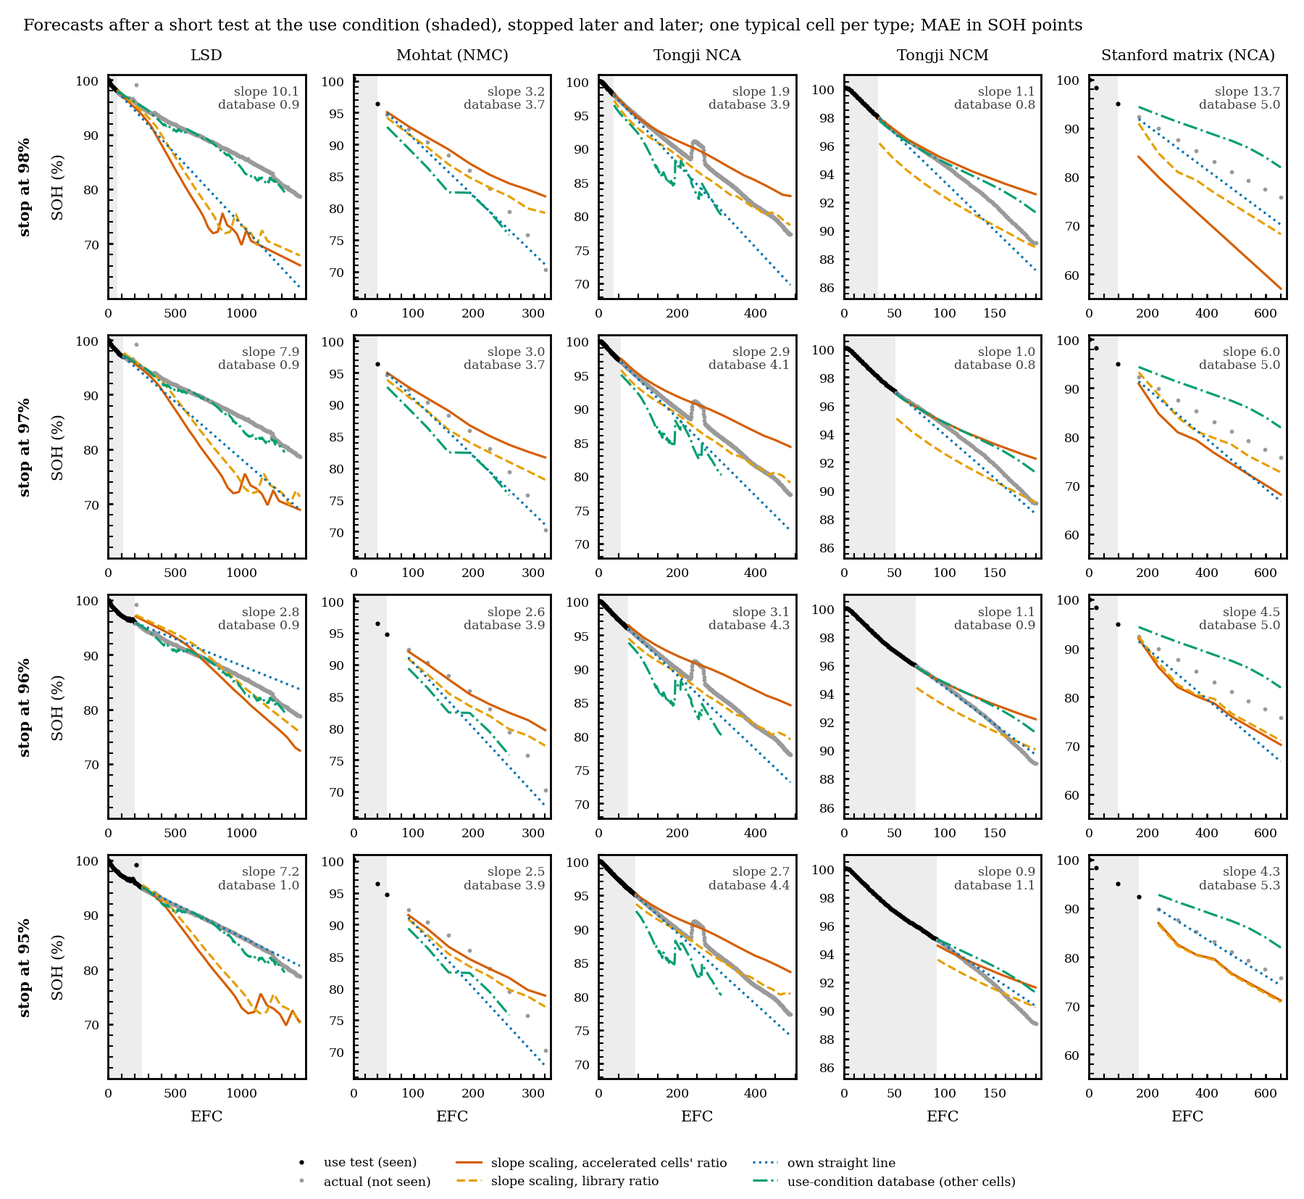
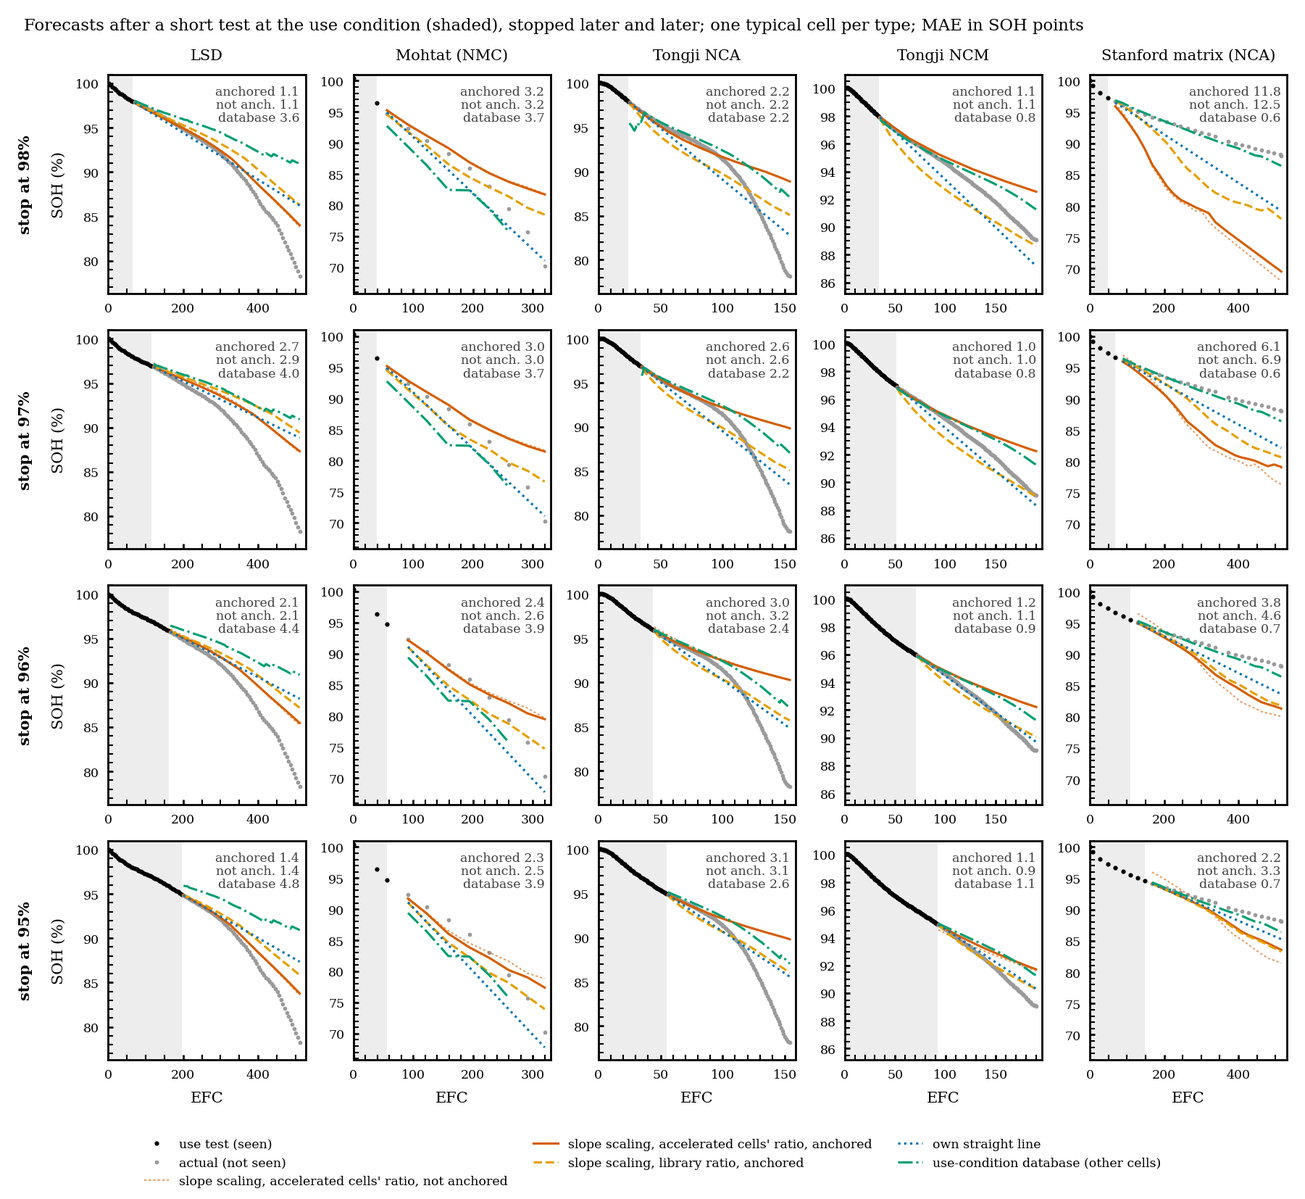
Scenario B+: anchor the forecast to the cell's own crossing of the stop level
Each method keeps its predicted t90, but the shared shape is forced through (t_L, L) of the use cell.
Helps every method at every stop (slope scaling -0.10 at 98 %, -0.32 at 95 %); the true-speed
reference drops from about 1.8 to 1.2-1.4. Slope scaling now matches the use-condition database
between the 97 % and 96 % stops. Figures redrawn with the anchored forecasts; leakage test extended.

diff --git a/scripts/fig_scenario_b_tradeoff.py b/scripts/fig_scenario_b_tradeoff.py
@@ -1,5 +1,5 @@
 """Figure: the trade-off between the length of the short test at the use condition and the forecast error
-(Scenario B / B+). Descriptive: the stop levels 97 % and 96 % are added between the two pre-registered ones
+(Scenario B / B+), with the anchored forecasts of scripts/scenario_b_anchor.py. Descriptive: the stop levels 97 % and 96 % are added between the two pre-registered ones
 (98 %, 95 %) to draw the curve; the methods are unchanged (knee_analogs/scenario_b.py, forecast_early).
 
     python scripts/fig_scenario_b_tradeoff.py            # --replot: redraw from the saved table
@@ -31,20 +31,25 @@ OUT = ROOT / "reports" / "library"
 plt.style.use(str(ROOT / "journal.mplstyle"))
 mm = 1 / 25.4
 LEVELS = (0.98, 0.97, 0.96, 0.95)
-METHODS = ["slope_accel", "slope_library", "early_linear", "early_accel", "oracle_speed", "use_database"]
+CACHE = ROOT / "data" / "library" / "scenario_b_early"  # written by scripts/scenario_b_anchor.py
+METHODS = ["slope_accel_anch", "slope_library_anch", "slope_accel", "early_linear", "early_accel_anch",
+           "oracle_speed_anch", "use_database"]
 STYLE = {  # colour, marker, label
-    "slope_accel": ("#D55E00", "o", "slope scaling, accelerated cells' ratio"),
-    "slope_library": ("#E69F00", "s", "slope scaling, library ratio"),
+    "slope_accel_anch": ("#D55E00", "o", "slope scaling, accelerated cells' ratio, anchored"),
+    "slope_library_anch": ("#E69F00", "s", "slope scaling, library ratio, anchored"),
+    "slope_accel": ("#D55E00", "o", "slope scaling, accelerated cells' ratio, not anchored"),
     "early_linear": ("#0072B2", "^", "own straight line"),
-    "early_accel": ("#CC79A7", "v", "time scaling, accelerated cells' ratio"),
+    "early_accel_anch": ("#CC79A7", "v", "time scaling, accelerated cells' ratio, anchored"),
 }
+FADED = {"slope_accel", "early_accel_anch"}
 
 
 def compute():
     meta, curves = z.load_library()
     rows = []
     for level in LEVELS:
-        P = b.forecast_early(meta, curves, level)
+        f = CACHE / f"forecast_{level:.2f}.csv.gz"
+        P = pd.read_csv(f) if f.exists() else b.forecast_early(meta, curves, level)
         _, O = b.score(P, METHODS)
         C = P.drop_duplicates("id")
         x = (C["t_stop"] / C["t90_true"]).groupby(C["type"]).median().mean()
@@ -77,25 +82,26 @@ def plot(T):
     # references: the database and the true speed, on the same points as each stop (x > 0); at x = 0 the
     # whole curve is scored, so those points stand apart and are not joined to the line
     for m, ls, mk, lab in [("use_database", "--", "D", "use-condition database (a full ageing campaign)"),
-                           ("oracle_speed", ":", "x", "true speed (reference, not available in practice)")]:
+                           ("oracle_speed_anch", ":", "x", "true speed, anchored (reference, not available in practice)")]:
         h, = a1.plot(test(m)["x"], test(m)["MAE"], color="0.4", ls=ls, lw=0.9, label=lab)
-        a1.plot(0, g(m)["MAE"].iloc[0], mk, color="0.4", ms=3, mfc="none", mew=0.7)
+        a1.plot(0, g(m.replace("_anch", ""))["MAE"].iloc[0], mk, color="0.4", ms=3, mfc="none", mew=0.7)
         handles.append(h)
     for m, (c, mk, lab) in STYLE.items():
-        h, = a1.plot(test(m)["x"], test(m)["MAE"], color=c, marker=mk, ms=3.5,
-                     lw=1.1 if m != "early_accel" else 0.8, alpha=1 if m != "early_accel" else 0.55, label=lab)
+        h, = a1.plot(test(m)["x"], test(m)["MAE"], color=c, marker=mk, ms=3.5 if m not in FADED else 2.5,
+                     lw=1.1 if m not in FADED else 0.7, alpha=1 if m not in FADED else 0.45,
+                     ls="-" if m != "slope_accel" else "--", mfc=c if m != "slope_accel" else "none", label=lab)
         handles.append(h)
     L = g("llm_speed+shape")
     h, = a1.plot(L["x"], L["MAE"], "*", color="#882255", ms=8, label="no use test: LLM speed + accelerated shape")
     handles.append(h)
     a1.annotate(f"{L['MAE'].iloc[0]:.1f}", (0, L["MAE"].iloc[0]), xytext=(5, 2), textcoords="offset points",
                 fontsize=small, color="#882255")
-    for (m, level), xy in {("slope_accel", 0.98): (-15, -1), ("slope_library", 0.98): (-15, -3),
-                           ("slope_accel", 0.95): (5, -9), ("slope_library", 0.95): (5, 3)}.items():
+    for (m, level), xy in {("slope_accel_anch", 0.98): (-15, -1), ("slope_library_anch", 0.98): (-15, -3),
+                           ("slope_accel_anch", 0.95): (5, -9), ("slope_library_anch", 0.95): (5, 3)}.items():
         r = test(m)[test(m)["level"] == level].iloc[0]
         a1.annotate(f"{r['MAE']:.1f}", (r["x"], r["MAE"]), xytext=xy, textcoords="offset points",
                     fontsize=small, color=STYLE[m][0])
-    for m, lab in [("use_database", "database"), ("oracle_speed", "true speed")]:
+    for m, lab in [("use_database", "database"), ("oracle_speed", "true speed")]:  # x = 0: not anchored
         a1.annotate(lab, (0, g(m)["MAE"].iloc[0]), xytext=(5, -2), textcoords="offset points", fontsize=small,
                     color="0.4")
     a1.text(0.0, 1.15, "x = 0: whole curve scored", fontsize=small, color="0.4")
@@ -113,10 +119,12 @@ def plot(T):
     a2.text(0.005, -0.12, "as good as the database", fontsize=small, ha="left", va="top", color="0.4")
     for m, (c, mk, _) in {**STYLE, "llm_speed+shape": ("#882255", "*", "")}.items():
         s = g(m)
-        a2.errorbar(s["x"] + {"slope_accel": -0.007, "early_linear": 0.007, "early_accel": 0.014}.get(m, 0),
+        if m == "slope_accel":
+            continue
+        a2.errorbar(s["x"] + {"slope_accel_anch": -0.007, "early_linear": 0.007, "early_accel_anch": 0.014}.get(m, 0),
                     s["diff"], yerr=[s["diff"] - s["ci_lo"], s["ci_hi"] - s["diff"]], color=c, marker=mk,
                     ms=3.5 if mk != "*" else 8, lw=1.1 if mk != "*" else 0, elinewidth=0.7, capsize=1.5,
-                    alpha=1 if m != "early_accel" else 0.55)
+                    alpha=1 if m not in FADED else 0.45)
     a2.set_ylabel("error minus database error (SOH points)", fontsize=fs)
     a2.set_title("(b) relative to the database, same points, 95 % CI", loc="left", fontsize=fs)
     for ax in (a1, a2):

diff --git a/scripts/fig_scenario_b_predictions.py b/scripts/fig_scenario_b_predictions.py
@@ -3,10 +3,10 @@ use condition until SOH reaches the stop level; the rest of its curve (to 3 x t9
 
     python scripts/fig_scenario_b_predictions.py            # --replot: reuse the cached forecasts
 
-1. scenario_b_predictions_by_stop.png: one cell per type (the median-error cell of slope_accel at the 96 %
+1. scenario_b_predictions_by_stop.png: one cell per type (the median-error cell of slope_accel_anch at the 96 %
    stop), with the use test stopped at 98, 97, 96 and 95 % SOH (rows).
 2. scenario_b_predictions_spread.png: stop at 96 %; per type the cells at the 10th, 50th and 90th
-   percentile of the slope_accel error (good, typical, bad).
+   percentile of the slope_accel_anch error (good, typical, bad).
 
 The per-cell forecasts are cached in data/library/scenario_b_early/ (gitignored).
 """
@@ -34,8 +34,9 @@ mm = 1 / 25.4
 LEVELS = (0.98, 0.97, 0.96, 0.95)
 REF_LEVEL = 0.96
 STYLE = {  # colour, line style, label
-    "slope_accel": ("#D55E00", "-", "slope scaling, accelerated cells' ratio"),
-    "slope_library": ("#E69F00", "--", "slope scaling, library ratio"),
+    "slope_accel": ("#D55E00", (0, (1.5, 1.5)), "slope scaling, accelerated cells' ratio, not anchored"),
+    "slope_accel_anch": ("#D55E00", "-", "slope scaling, accelerated cells' ratio, anchored"),
+    "slope_library_anch": ("#E69F00", "--", "slope scaling, library ratio, anchored"),
     "early_linear": ("#0072B2", ":", "own straight line"),
     "use_database": ("#009E73", "-.", "use-condition database (other cells)"),
 }
@@ -56,7 +57,7 @@ def forecasts(replot):
     return P
 
 
-def cell_error(D, m="slope_accel"):
+def cell_error(D, m="slope_accel_anch"):
     return (D[m] - D["actual"]).abs().groupby(D["id"]).mean() * 100
 
 
@@ -70,14 +71,16 @@ def panel(ax, curves, D, cid, show_err=True):
             label="actual (not seen)")
     for m, (c, ls, lab) in STYLE.items():
         if g[m].notna().any():
-            ax.plot(g["efc"], g[m] * 100, color=c, ls=ls, lw=0.9, label=lab)
+            ax.plot(g["efc"], g[m] * 100, color=c, ls=ls, lw=0.9 if m != "slope_accel" else 0.6,
+                    alpha=1 if m != "slope_accel" else 0.6, label=lab)
     lo = np.nanmin([s[t <= tend].min()] + [g[m].min() for m in STYLE]) * 100
     ax.set_ylim(max(lo - 2, 40), 101)
     ax.set_xlim(0, tend * 1.03)
     ax.tick_params(labelsize=SMALL, length=2)
     if show_err:
-        e = {m: (g[m] - g["actual"]).abs().mean() * 100 for m in ("slope_accel", "use_database")}
-        ax.text(0.97, 0.95, f"slope {e['slope_accel']:.1f}\ndatabase {e['use_database']:.1f}",
+        e = {m: (g[m] - g["actual"]).abs().mean() * 100 for m in ("slope_accel_anch", "slope_accel", "use_database")}
+        ax.text(0.97, 0.95, f"anchored {e['slope_accel_anch']:.1f}\nnot anch. {e['slope_accel']:.1f}\n"
+                f"database {e['use_database']:.1f}",
                 transform=ax.transAxes, ha="right", va="top", fontsize=SMALL, color="0.25", linespacing=1.1)
 
 
@@ -135,8 +138,8 @@ def main():
                 axes[i, j].text(-0.42, 0.5, name, transform=axes[i, j].transAxes, rotation=90, ha="center",
                                 va="center", fontsize=FS, weight="bold")
     finish(fig, axes, OUT / "scenario_b_predictions_spread.png",
-           "Use test stopped at 96 % SOH (shaded): good, typical and bad cells by the error of slope scaling "
-           "(accelerated cells' ratio); MAE in SOH points")
+           "Use test stopped at 96 % SOH (shaded): good, typical and bad cells by the error of anchored slope "
+           "scaling (accelerated cells' ratio); MAE in SOH points")
 
 
 if __name__ == "__main__":

diff --git a/knee_analogs/scenario_b.py b/knee_analogs/scenario_b.py
@@ -107,6 +107,21 @@ def curve_from_shape(sh, t90, t):
     return out
 
 
+def curve_from_shape_anchored(sh, t_level, level, t90, t):
+    """The shared shape forced through the use cell's own crossing of the stop level, (t_level, level), and
+    through (t90, 90 %): the shape's part from ``level`` down is stretched between the two points; beyond
+    t90 the same stretch continues. NaN if t90 <= t_level."""
+    if not (np.isfinite(t90) and np.isfinite(t_level) and t90 > t_level):
+        return np.full(len(t), np.nan)
+    ok = np.isfinite(sh)
+    us, ss = U_SHAPE[ok], sh[ok]
+    i = int(np.argmax(ss <= level))  # first grid point at or below the level
+    u_l = us[0] if i == 0 else float(np.interp(level, [ss[i], ss[i - 1]], [us[i], us[i - 1]]))
+    u_l = min(u_l, 0.999)
+    u = u_l + (np.asarray(t, float) - t_level) * (1 - u_l) / (t90 - t_level)
+    return curve_from_shape(sh, 1.0, u)
+
+
 def curve_from_levels(levels, efc, t):
     """SOH at EFC t from (SOH level, EFC) pairs, through (0, 100 %); beyond the last level the last slope."""
     e = np.r_[0.0, np.maximum.accumulate(np.asarray(efc, float))]
@@ -211,6 +226,12 @@ def score(P: pd.DataFrame, methods: list[str]) -> tuple[pd.DataFrame, pd.Series]
 # * ``slope_accel+llm``: geometric mean of the slope_accel t90 and Opus's t90 (data, median of runs).
 # Compared with speed_regression, the Opus (data, median of runs) curve, oracle_speed and use_database
 # on the same points.
+# Added before the third run (anchoring), fixed before it was run; motivated by the figures of the
+# second run (forecasts that start a point or two away from the cell's last measurement):
+# * ``<method>_anch`` for every t90 method above and oracle_speed: the same t90, but the curve is forced
+#   through the cell's own crossing of the stop level, (t_LEVEL, LEVEL), with curve_from_shape_anchored.
+#   Primary comparisons: slope_accel_anch vs slope_accel, use_database and early_linear at the 98 % and
+#   95 % stops; 97 % and 96 % only to draw the trade-off curve.
 
 
 def forecast_early(meta, curves, level=0.98, llm_t90: dict | None = None) -> pd.DataFrame:
@@ -263,10 +284,12 @@ def forecast_early(meta, curves, level=0.98, llm_t90: dict | None = None) -> pd.
                 if "slope_accel" in pred:
                     pred["slope_accel+llm"] = float(np.sqrt(pred["slope_accel"] * llm_t90[(typ, key)]))
             out = {k: curve_from_shape(sh, v, tt) for k, v in pred.items()}
+            out.update({f"{k}_anch": curve_from_shape_anchored(sh, tx_seen, level, v, tt) for k, v in pred.items()})
             m = (ts > tx_seen / 2) & (ts <= t_stop)
             slope = np.polyfit(ts[m], ss[m], 1)[0] if m.sum() >= 2 else (ss[-1] - 1.0) / ts[-1]
             out["early_linear"] = ss[-1] + slope * (tt - ts[-1])
             out["oracle_speed"] = curve_from_shape(sh, t90, tt)
+            out["oracle_speed_anch"] = curve_from_shape_anchored(sh, tx_seen, level, t90, tt)
             others = [o for o in use if o != c]
             G = np.array([np.interp(tt, *curves[o], left=np.nan, right=np.nan) for o in others])
             with np.errstate(all="ignore"):

diff --git a/scripts/scenario_b_anchor.py b/scripts/scenario_b_anchor.py
@@ -1,0 +1,60 @@
+"""Scenario B+, third round: anchoring the forecast to the use cell's own crossing of the stop level
+(knee_analogs/scenario_b.py, curve_from_shape_anchored; fixed before this was run).
+
+    python scripts/scenario_b_anchor.py
+
+Primary: slope_accel_anch vs slope_accel, use_database and early_linear at the 98 % and 95 % stops.
+97 % and 96 % are scored too, only for the trade-off curve. Writes reports/library/scenario_b_anchor.csv
+(MAE per type, level and method) and scenario_b_anchor_ci.csv; caches the per-cell forecasts in
+data/library/scenario_b_early/ (gitignored) for scripts/fig_scenario_b_predictions.py --replot.
+"""
+
+from __future__ import annotations
+
+import sys
+from pathlib import Path
+
+import pandas as pd
+
+ROOT = Path(__file__).resolve().parents[1]
+sys.path.insert(0, str(ROOT))
+sys.path.insert(0, str(ROOT / "scripts"))
+from knee_analogs import scenario_b as b  # noqa: E402
+from knee_analogs import zero_shot as z  # noqa: E402
+from scenario_b_study import stratified_ci  # noqa: E402
+
+OUT = ROOT / "reports" / "library"
+CACHE = ROOT / "data" / "library" / "scenario_b_early"
+LEVELS = (0.98, 0.97, 0.96, 0.95)
+BASE = ["slope_accel", "slope_library", "early_accel", "early_library", "oracle_speed"]
+METHODS = [m for x in BASE for m in (x, f"{x}_anch")] + ["early_linear", "use_database"]
+PRIMARY = [("slope_accel_anch", "slope_accel"), ("slope_accel_anch", "use_database"),
+           ("slope_accel_anch", "early_linear")]
+SECONDARY = [("slope_library_anch", "slope_library"), ("early_accel_anch", "early_accel"),
+             ("early_library_anch", "early_library"), ("oracle_speed_anch", "oracle_speed"),
+             ("slope_library_anch", "use_database"), ("slope_accel_anch", "slope_library_anch")]
+
+
+def main():
+    meta, curves = z.load_library()
+    CACHE.mkdir(parents=True, exist_ok=True)
+    res, cis = [], []
+    pd.set_option("display.width", 220)
+    for level in LEVELS:
+        P = b.forecast_early(meta, curves, level)
+        P.to_csv(CACHE / f"forecast_{level:.2f}.csv.gz", index=False)
+        T, O = b.score(P, METHODS)
+        print(f"\n=== stop at {level:.0%}; MAE (SOH points), common points\n" + T.round(2).to_string()
+              + "\nmean over types:\n" + O.round(2).to_string(), flush=True)
+        res.append(T.assign(level=level).reset_index())
+        for a, c in PRIMARY + SECONDARY:
+            r = stratified_ci(P, a, c)
+            cis.append({"level": level, "primary": (a, c) in PRIMARY and level in (0.98, 0.95), "a": a, "b": c,
+                        **r})
+            print(f"  {a} - {c}: {r['diff']:+.2f} [{r['ci_lo']:+.2f}, {r['ci_hi']:+.2f}]", flush=True)
+    pd.concat(res).to_csv(OUT / "scenario_b_anchor.csv", index=False)
+    pd.DataFrame(cis).to_csv(OUT / "scenario_b_anchor_ci.csv", index=False)
+
+
+if __name__ == "__main__":
+    main()

diff --git a/tests/test_knee_analogs.py b/tests/test_knee_analogs.py
@@ -349,7 +349,8 @@ def test_scenario_b_early_never_sees_the_use_cell_after_its_short_test():
     a = P[P["id"] == q].set_index("efc")
     c2 = P2[P2["id"] == q].set_index("efc")
     common = a.index.intersection(c2.index)
-    for m in ("early_accel", "early_library", "early_linear", "speed_regression", "slope_accel", "slope_library"):
+    for m in ("early_accel", "early_library", "early_linear", "speed_regression", "slope_accel", "slope_library",
+              "slope_accel_anch", "slope_library_anch", "early_accel_anch", "early_library_anch"):
         assert np.allclose(a.loc[common, m], c2.loc[common, m]), m
     P95 = b.forecast_early(meta, curves, level=0.95)  # also for a later stop
     _, t_stop95 = z.t_at(t, s, level=0.95, with_stop=True)
@@ -360,3 +361,11 @@ def test_scenario_b_early_never_sees_the_use_cell_after_its_short_test():
     common = a.index.intersection(c3.index)
     for m in ("early_accel", "slope_accel", "slope_library"):
         assert np.allclose(a.loc[common, m], c3.loc[common, m]), m
+    # anchored curves start at the stop level where the cell crossed it, and keep the predicted t90
+    g = P95[P95["id"] == q]
+    tx = z.t_at(t, s, level=0.95)
+    from knee_analogs.scenario_b import curve_from_shape_anchored  # noqa: F401
+    assert g["slope_accel_anch"].notna().all()
+    first = g.sort_values("efc").iloc[0]
+    assert abs(first["slope_accel_anch"] - 0.95) < 0.95 - first["actual"] + 0.01
+    assert first["efc"] > tx

diff --git a/docs/results_scenario_b.md b/docs/results_scenario_b.md
@@ -295,7 +295,8 @@ both 1.1-1.3.
   ![Trade-off between use-test length and error](../reports/library/figs/scenario_b_tradeoff.png)
 
   The figure (`scripts/fig_scenario_b_tradeoff.py`) adds stops at 97 % and 96 % SOH between the two
-  pre-registered ones, only to draw the curve; the methods are unchanged. Panel (b) compares each method with
+  pre-registered ones, only to draw the curve. It now shows the anchored forecasts of the third round
+  (below); the numbers in this paragraph are the earlier, unanchored ones. Panel (b) compares each method with
   the database on the same points, which removes the problem of differently scored rows. Slope scaling
   matches the database from a stop at 96 % (about 0.37 t90; −0.04 [−0.44, +0.37]) and beats it at 95 %.
   A stop at 97 % (about 0.26 t90) gives 3.5 SOH points, 0.6-0.7 worse than the database. Time scaling stays
@@ -311,9 +312,9 @@ What the figures show (descriptive, nothing was changed after looking):
 - **Knees are mostly missed.** Where a cell bends sharply after the stop (LSD, Tongji NCA and NCM bad
   cells), every method, the database included, keeps a gentle slope. Slope scaling bends only when the
   shared shape bends, and then sometimes too early (LSD bad cell).
-- **The forecast is not anchored to the cell's last measured SOH.** It is the shared shape stretched to a
-  predicted t90, so it can start a point or two away from the cell's last measurement (Tongji NCM,
-  library ratio). Anchoring it is an obvious next variant; it would have to be fixed before a new test.
+- **The forecast was not anchored to the cell's last measured SOH.** It was the shared shape stretched to
+  a predicted t90, so it could start a point or two away from the cell's last measurement. The third
+  round (below) anchors it; the figures now show both.
 - **Sparse curves:** Mohtat and Stanford have few check-ups, so the slope between 99 and 98 % (or 97 and
   96 %) rests on two or three points; that is where slope scaling is noisiest.
 - **Very fast Stanford cells:** a few reach 90 % within 2-25 EFC (e.g. `seq201`, 2.3 EFC). They are early
@@ -321,6 +322,46 @@ What the figures show (descriptive, nothing was changed after looking):
 - **The single-cell picture is not monotone:** the LSD cell in the first figure is the typical cell at
   96 %, and its error is larger at the other stops. The mean error falls steadily with the stop
   (figure above), single cells do not.
+
+### Third round: anchoring the forecast to the cell (`scripts/scenario_b_anchor.py`)
+
+The rule (`curve_from_shape_anchored`, fixed in the code before the run): keep each method's predicted
+t90, but force the curve through the point where the use cell itself crossed the stop level, (t_L, L).
+The shared shape's part from L downwards is stretched between (t_L, L) and (t90, 90 %), and the same
+stretch continues after t90. It was motivated by the figures of the second round, i.e. by looking at
+these test cells, so it is not a clean pre-registered test; it needs confirming on new cells.
+
+Error in SOH points, mean over types; each stop on its own points:
+
+| method | 98 % | 97 % | 96 % | 95 % |
+|---|---|---|---|---|
+| true speed, not anchored / anchored (reference) | 1.78 / 1.44 | 1.80 / 1.36 | 1.82 / 1.29 | 1.83 / 1.23 |
+| use-condition database | 2.77 | 2.88 | 3.02 | 3.18 |
+| slope scaling, accelerated ratio: not anchored | 4.53 | 3.54 | 2.98 | 2.67 |
+| slope scaling, accelerated ratio: **anchored** | **4.44** | **3.37** | **2.69** | **2.36** |
+| slope scaling, library ratio: not anchored | 3.89 | 3.46 | 3.11 | 2.78 |
+| slope scaling, library ratio: **anchored** | **3.67** | **3.22** | **2.78** | **2.39** |
+| own straight line | 5.01 | 4.13 | 3.37 | 2.64 |
+
+Primary comparisons (95 % stratified bootstrap CI):
+
+| | 98 % | 95 % |
+|---|---|---|
+| slope_accel anchored − not anchored | −0.10 [−0.13, −0.07] | −0.32 [−0.38, −0.25] |
+| slope_accel anchored − database | +1.67 [+1.21, +2.10] | −0.82 [−1.17, −0.49] |
+| slope_accel anchored − straight line | −0.71 [−1.96, +0.51] | −0.32 [−1.02, +0.28] |
+
+- **Anchoring helps every method at every stop, but modestly:** 0.1-0.3 points for slope scaling with
+  the accelerated ratio, 0.2-0.4 with the library ratio, under 0.1 for time scaling. The gain grows
+  with the stop, as the offset it removes matters more once the forecast speed is right.
+- **The shape error falls more:** the true-speed reference drops from about 1.8 to 1.2-1.4. So about
+  a third of the shape error was the offset at the start, not the shape itself.
+- **Break-even with the database moves earlier:** slope scaling now equals the database between the
+  97 % and 96 % stops (+0.50 [+0.08, +0.91] at 97 %, −0.32 [−0.72, +0.07] at 96 %) and beats it at 95 %.
+  At 98 % it is still 1.7 points worse.
+- **Against the own straight line, still not significant at any stop,** though the anchored slope
+  scaling is lower at all four.
+- **Knees are still missed** (see the figures): anchoring fixes the start, not the bend.
 
 **Caveats:** cells resampled within only 5 types; Mohtat has no real short test; the first two methods
 cannot be told apart statistically from the straight line.
@@ -338,7 +379,7 @@ Files:
   `scenario_b_ci.csv`, `scenario_b_repeats.csv`, `scenario_b_repeats_t90.csv`, `scenario_b_repeats_ci.csv`;
 - `reports/library/scenario_b_early.csv`, `scenario_b_early_ci.csv`, `scenario_b_early_t90.csv`,
   `scenario_b_early2.csv`, `scenario_b_early2_ci.csv`, `scenario_b_early2_t90.csv`,
-  `scenario_b_tradeoff.csv`;
+  `scenario_b_tradeoff.csv`, `scenario_b_anchor.csv`, `scenario_b_anchor_ci.csv`;
 - `reports/library/figs/scenario_b_examples.png`, `scenario_b_early_examples.png`,
   `scenario_b_tradeoff.png`,
   `scenario_b_predictions_by_stop.png`, `scenario_b_predictions_spread.png`.

diff --git a/README.md b/README.md
@@ -133,7 +133,7 @@ scripts/                data download helpers, dataset adapters (convert_lsd.py,
                         build_library.py, universality.py, zero_shot_study.py, chronos_forecast.py,
                         fig_zero_shot_llm.py, scenario_b_study.py, scenario_b_repeats.py,
                         scenario_b_early.py, scenario_b_early2.py, fig_scenario_b_tradeoff.py,
-                        fig_scenario_b_predictions.py
+                        fig_scenario_b_predictions.py, scenario_b_anchor.py
 docs/                   results write-ups per dataset
 reports/<dataset>/      tables (.csv) and figures (.png/.pdf)
 tests/                  synthetic-cell tests: knee detection, de-duplication, no self-matching
